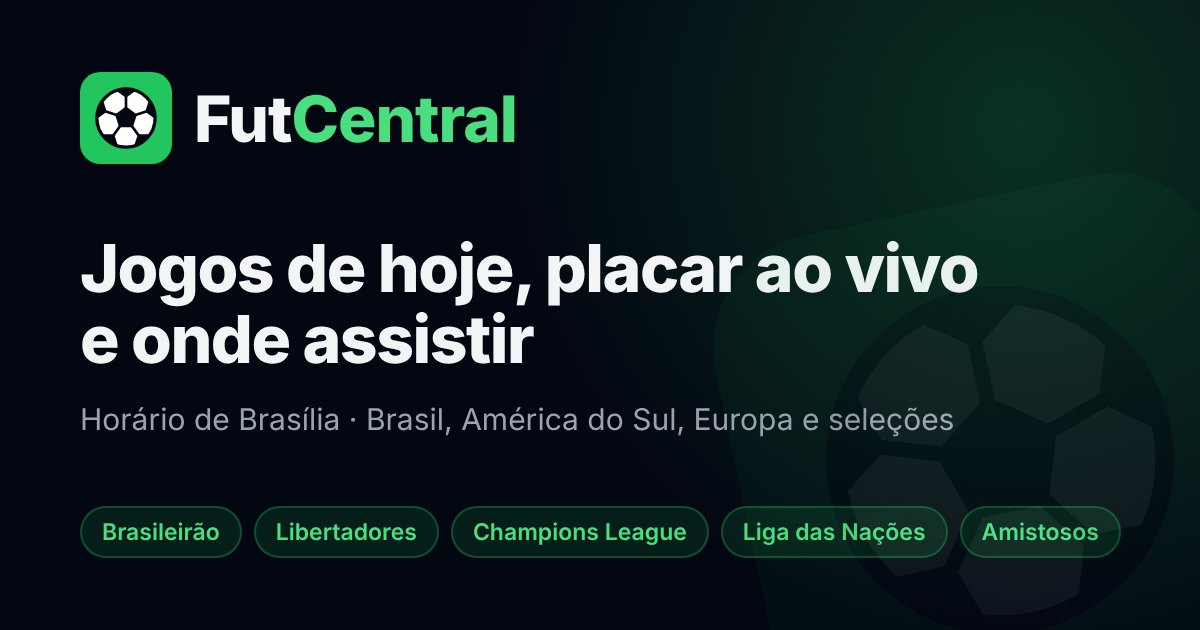
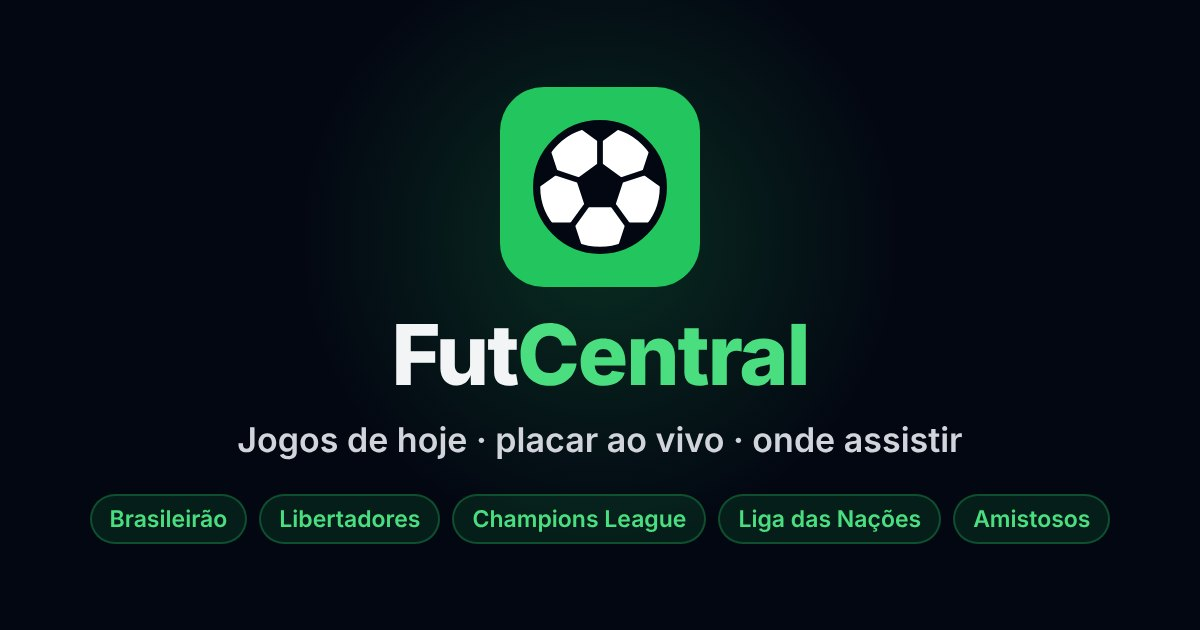
Imagem de prévia centralizada para o recorte quadrado do WhatsApp

diff --git a/site_esportivo.html b/site_esportivo.html
@@ -20,8 +20,8 @@
   <meta property="og:url" content="https://futcentral.onrender.com/">
   <meta property="og:title" content="FutCentral – Jogos de hoje, placar ao vivo e onde assistir">
   <meta property="og:description" content="Todos os jogos do dia no horário de Brasília, com placar ao vivo e os canais para assistir no Brasil.">
-  <meta property="og:image" content="https://futcentral.onrender.com/static/og.jpg">
-  <meta property="og:image:secure_url" content="https://futcentral.onrender.com/static/og.jpg">
+  <meta property="og:image" content="https://futcentral.onrender.com/static/og.jpg?v=2">
+  <meta property="og:image:secure_url" content="https://futcentral.onrender.com/static/og.jpg?v=2">
   <meta property="og:image:type" content="image/jpeg">
   <meta property="og:image:width" content="1200">
   <meta property="og:image:height" content="630">
@@ -29,7 +29,7 @@
   <meta name="twitter:card" content="summary_large_image">
   <meta name="twitter:title" content="FutCentral – Jogos de hoje, placar ao vivo e onde assistir">
   <meta name="twitter:description" content="Todos os jogos do dia no horário de Brasília, com placar ao vivo e os canais para assistir no Brasil.">
-  <meta name="twitter:image" content="https://futcentral.onrender.com/static/og.jpg">
+  <meta name="twitter:image" content="https://futcentral.onrender.com/static/og.jpg?v=2">
   <script src="https://cdn.tailwindcss.com"></script>
   <link href="https://cdnjs.cloudflare.com/ajax/libs/font-awesome/6.4.0/css/all.min.css" rel="stylesheet">
 </head>

diff --git a/README.md b/README.md
@@ -73,7 +73,7 @@ Em `main.py`, no dicionário `LIGAS_PRINCIPAIS`, cada linha liga o código da ES
 Em `main.py`, na lista `SELECOES_PRINCIPAIS`, separada por continente. Escreva o nome em **português e em inglês**, porque a ESPN às vezes devolve em inglês. Acentos e maiúsculas não importam.
 
 ### Prévia ao compartilhar o link
-Título, descrição e imagem ficam nas tags `og:` e `twitter:` do `<head>` do `site_esportivo.html`. Os endereços usam `https://futcentral.onrender.com`: **se o domínio mudar, troque nessas tags**. Para trocar a imagem, substitua o `static/og.jpg`, mantendo 1200×630 e menos de 300 KB.
+Título, descrição e imagem ficam nas tags `og:` e `twitter:` do `<head>` do `site_esportivo.html`. Os endereços usam `https://futcentral.onrender.com`: **se o domínio mudar, troque nessas tags**. Para trocar a imagem, substitua o `static/og.jpg` (1200×630, menos de 300 KB, com o logo **no centro**, porque o WhatsApp no computador mostra só um quadrado do meio) e aumente o `?v=` nos endereços da imagem para as redes buscarem a nova.
 
 O WhatsApp e o Facebook guardam a prévia por alguns dias. Para forçar a atualização, use o [Sharing Debugger](https://developers.facebook.com/tools/debug/) → **Scrape Again**.
 
